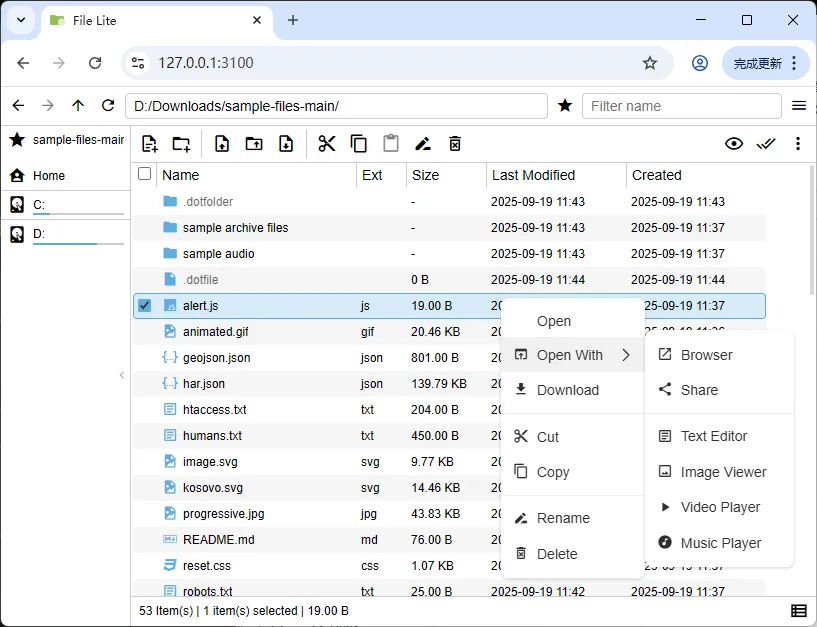
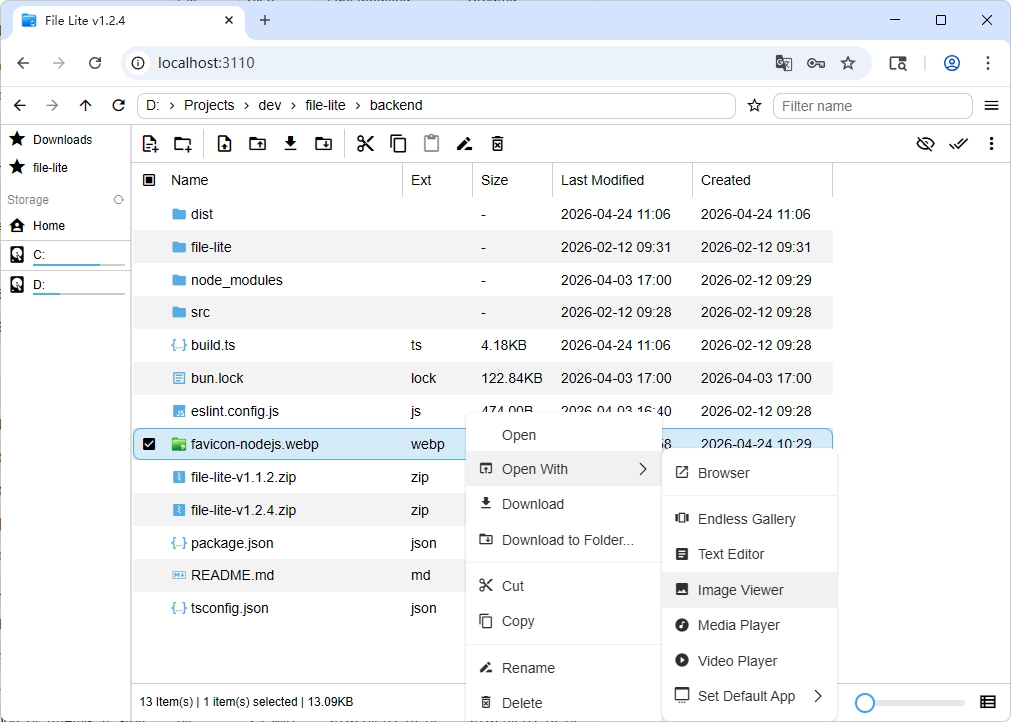
fix build & update readme

diff --git a/README-en.md b/README-en.md
@@ -2,25 +2,51 @@
 
 [中文](./README.md) | English
 
-Web file manager, tech stack Express.js + TypeScript + Vue 3
+<p align="center">
+  <img src="frontend/public/favicon.webp" alt="File Lite" width="72" height="72" />
+  &nbsp;&nbsp;
+  <img src="backend/favicon-nodejs.webp" alt="Node.js backend" width="72" height="72" />
+</p>
+
+<p align="center"><b>Web file manager</b> · Vue 3 + TypeScript</p>
+
+---
+
+## Dual backends
+
+The project ships **two server implementations** that share the same frontend—pick one for your deployment:
+
+| | **Node.js backend** (`backend/`) | **Go backend** (`backend-go/`) |
+|:---|:---|:---|
+| **Stack** | Express.js + TypeScript, developed and bundled with Bun | Echo, single static binary |
+| **Typical use** | `npm i -g file-lite`, rapid iteration, script-friendly workflows | Low footprint, containers / edge, single-binary distribution |
+| **Docs** | Development & config below | [backend-go/README.md](backend-go/README.md) |
+
+> Frontend for the Go build: run `frontend:build-go` first so static assets land in `backend-go/frontend/` (see the Go README).
+
+---
 
 ![screenshot](docs/screenshot.webp)
 
-- Bundle size: under 20MB
-- Features
-  - Support file creation, deletion, renaming, moving, copying
-  - Support batch file upload, upload folder, download, download folder as zip
-  - Support text editing, image, video, audio file preview
-- Security
-  - Support password authentication, support banning IP after exceeding password error times
-  - Support limiting path access range
-  - Support HTTPS protocol (using self-signed certificate)
-  - Support access frequency limit
+- **Bundle size**: single artifact stays around **20MB** or less
+- **Features**
+  - Files & folders: create, delete, rename, move, copy
+  - Transfers: batch upload, upload folder, download, download folder as ZIP
+  - Text editor
+  - Preview: images, video, audio; **music player** with **playlist, cover art, and lyrics**
+  - Video: toggle **ArtPlayer.js** vs **native `<video>`** from the app menu (preference persisted)
+  - **Endless Gallery**: vertical, short-video-style feed of supported images / videos / audio in the current folder, with touch and keyboard / mouse navigation
+  - Explorer: per-path layout & sort persistence, default app per file extension, and more
+- **Security**
+  - Password auth; optional IP ban after repeated failed logins
+  - Configurable allowed root path scope
+  - HTTPS including self-signed certificates
+  - Request rate limiting
 
 ## Installation
 
 ```shell
-# Global installation (Windows requires administrator privileges)
+# Global install (Windows may require administrator privileges)
 npm i -g file-lite
 
 # Run
@@ -32,10 +58,10 @@ npm uninstall -g file-lite
 
 ## Development
 
-Using bun to develop and compile, the final product runs in the Node.js environment
+Use **Bun** for installs and scripts. The **default build targets the Node.js runtime** (`backend` embeds the frontend).
 
 ```shell
-# backend
+# Node.js backend
 cd backend
 bun i
 bun run dev
@@ -43,14 +69,15 @@ bun run build
 ```
 
 ```shell
-# frontend
+# Frontend
 cd frontend
 bun i
 bun run frontend:dev
 bun run frontend:build
+```
 
 ```shell
-# auto build
+# One-shot build (backend bundles frontend)
 cd backend
 bun run build:auto
 
@@ -58,11 +85,11 @@ cd dist
 node file-lite.min.mjs
 ```
 
-- [go backend](./backend-go)
+- **Go backend**: build steps and `frontend:build-go` are documented in [backend-go/README.md](backend-go/README.md)
 
 ## Configuration
 
-- Configuration file path: `${cwd}/data/config.json`
-- Configuration document: [IConfig](backend/src/config/types.ts)
-- Supported environment variables example [.env.development](./backend/.env.development)
-- [Generate and trust self-signed certificate using mkcert](./docs/mkcert.md)
+- Config file path: `${cwd}/data/config.json`
+- Type reference: [IConfig](backend/src/config/types.ts)
+- Environment variables example: [.env.development](./backend/.env.development)
+- [Generate and trust self-signed certificates with mkcert](./docs/mkcert.md)

diff --git a/README.md b/README.md
@@ -2,20 +2,45 @@
 
 中文 | [English](./README-en.md)
 
-Web 文件管理器，技术栈 Express.js + TypeScript + Vue 3
+<p align="center">
+  <img src="frontend/public/favicon.webp" alt="File Lite" width="72" height="72" />
+  &nbsp;&nbsp;
+  <img src="backend/favicon-nodejs.webp" alt="Node.js backend" width="72" height="72" />
+</p>
+
+<p align="center"><b>Web 文件管理器</b> · Vue 3 + TypeScript</p>
 
 ![screenshot](docs/screenshot.webp)
 
-- 打包体积不超过 20MB
-- 功能
-  - 支持文件创建、删除、重命名、移动、复制
-  - 支持批量文件上传、上传文件夹、下载、下载文件夹为zip
-  - 支持文本编辑，图片、视频、音频文件预览
-- 安全
-  - 支持密码认证，支持密码错误超过次数封禁IP
-  - 支持限制路径访问范围
-  - 支持 HTTPS 协议（使用自签名证书）
-  - 支持访问频率限制
+---
+
+## 双后端
+
+项目提供 **两种服务端实现**，共享同一套前端，可按部署场景选择其一：
+
+| | **Node.js 后端** (`backend/`) | **Go 后端** (`backend-go/`) |
+|:---|:---|:---|
+| **技术** | Express.js + TypeScript，使用 Bun 开发与打包 | Echo，单文件可执行程序 |
+| **典型用途** | `npm i -g file-lite` 全局安装、快速迭代与插件式扩展 | 资源占用低、容器 / 边缘设备单二进制分发 |
+| **文档** | 见下文「开发」与配置说明 | [backend-go/README.md](backend-go/README.md) |
+
+> 前端构建：Go 镜像需先执行 `frontend:build-go`，将静态资源输出到 `backend-go/frontend/`（详见 Go 后端 README）。
+
+
+- **打包体积**：单包不超过约 20MB
+- **功能**
+  - 文件与目录：创建、删除、重命名、移动、复制
+  - 传输：批量上传、上传文件夹、下载、将文件夹打包为 ZIP 下载
+  - 文本编辑器
+  - 预览：图片、视频、音频；**音乐播放器**（播放列表、封面、歌词展示）
+  - 视频：**ArtPlayer.js** 与**原生 `<video>`** 在菜单中一键切换（偏好持久化）
+  - **Endless Gallery**：类短视频流的纵向滑动浏览，聚合当前目录下支持的图片 / 视频 / 音频，触屏与键鼠操作
+  - 资源管理器：路径级布局与排序状态持久化、按扩展名设置默认打开方式等
+- **安全**
+  - 密码认证；密码错误超次数可封禁 IP
+  - 可限制允许访问的根路径范围
+  - 支持 HTTPS（含自签名证书）
+  - 访问频率限制
 
 ## 安装
 
@@ -32,10 +57,10 @@ npm uninstall -g file-lite
 
 ## 开发
 
-使用 bun 开发和编译，最终产物在 Node.js 环境运行
+使用 **Bun** 安装依赖与执行脚本；**默认产物面向 Node.js 运行时**（由 `backend` 打包并嵌入前端）。
 
 ```shell
-# backend
+# Node.js 后端
 cd backend
 bun i
 bun run dev
@@ -43,14 +68,15 @@ bun run build
 ```
 
 ```shell
-# frontend
+# 前端
 cd frontend
 bun i
 bun run frontend:dev
 bun run frontend:build
+```
 
 ```shell
-# auto build
+# 一键构建（后端嵌入前端）
 cd backend
 bun run build:auto
 
@@ -58,11 +84,11 @@ cd dist
 node file-lite.min.mjs
 ```
 
-- [go 后端](backend-go/README.md)
+- **Go 后端**：编译与 `frontend:build-go` 说明见 [backend-go/README.md](backend-go/README.md)
 
 ## 配置文件
 
 - 配置文件路径：`${cwd}/data/config.json`
-- 配置文档：[IConfig](backend/src/config/types.ts)
-- 支持的环境变量示例 [.env.development](./backend/.env.development)
+- 配置类型说明：[IConfig](backend/src/config/types.ts)
+- 环境变量示例：[.env.development](./backend/.env.development)
 - [使用 mkcert 生成并信任自签名证书](./docs/mkcert.md)

diff --git a/backend-go/README.md b/backend-go/README.md
@@ -76,5 +76,5 @@ gofmt -w .\
 # icon 生成
 
 - Install rsrc tool: `go install github.com/akavel/rsrc@latest`
-- Run `bun run icon` in backend-go. This generates `rsrc_windows_amd64.syso` and `rsrc_windows_arm64.syso`.
-- The go build command will automatically include the correct `.syso` for the target architecture.
+- Run `bun run icon` in backend-go to generate `icon.ico`.
+- `rsrc.syso` is generated per-architecture automatically by `build:win:*` scripts and removed after each build.
